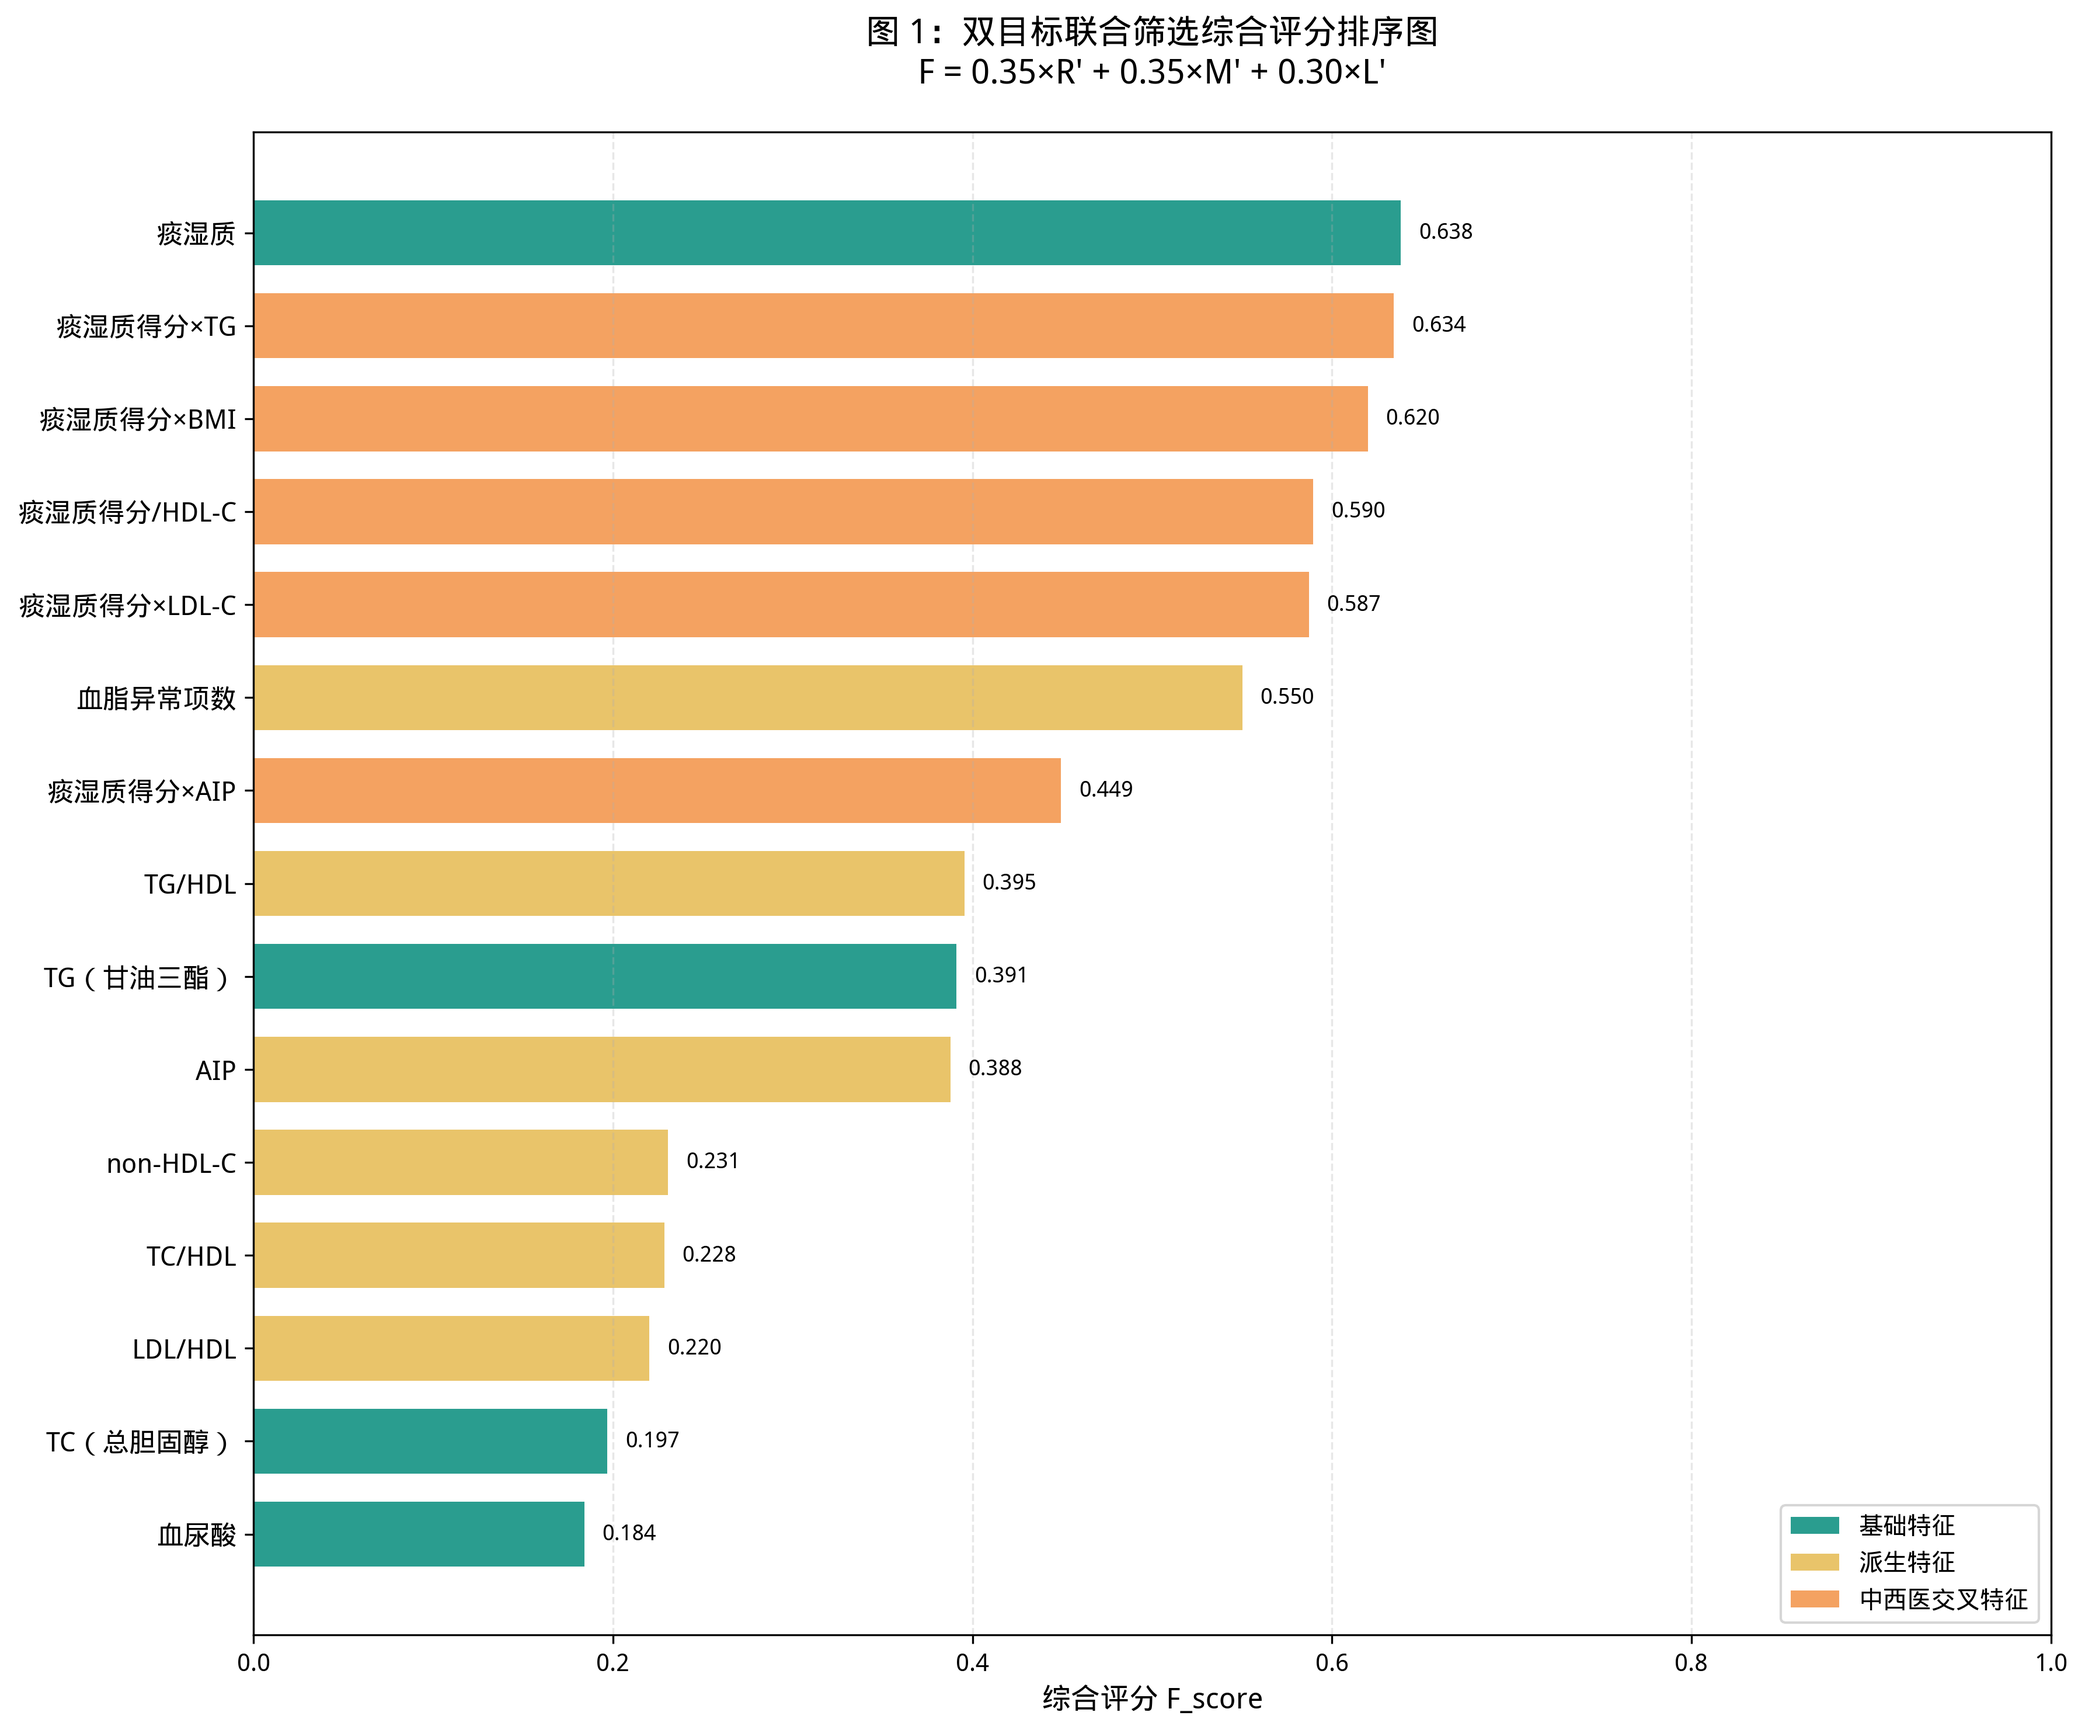
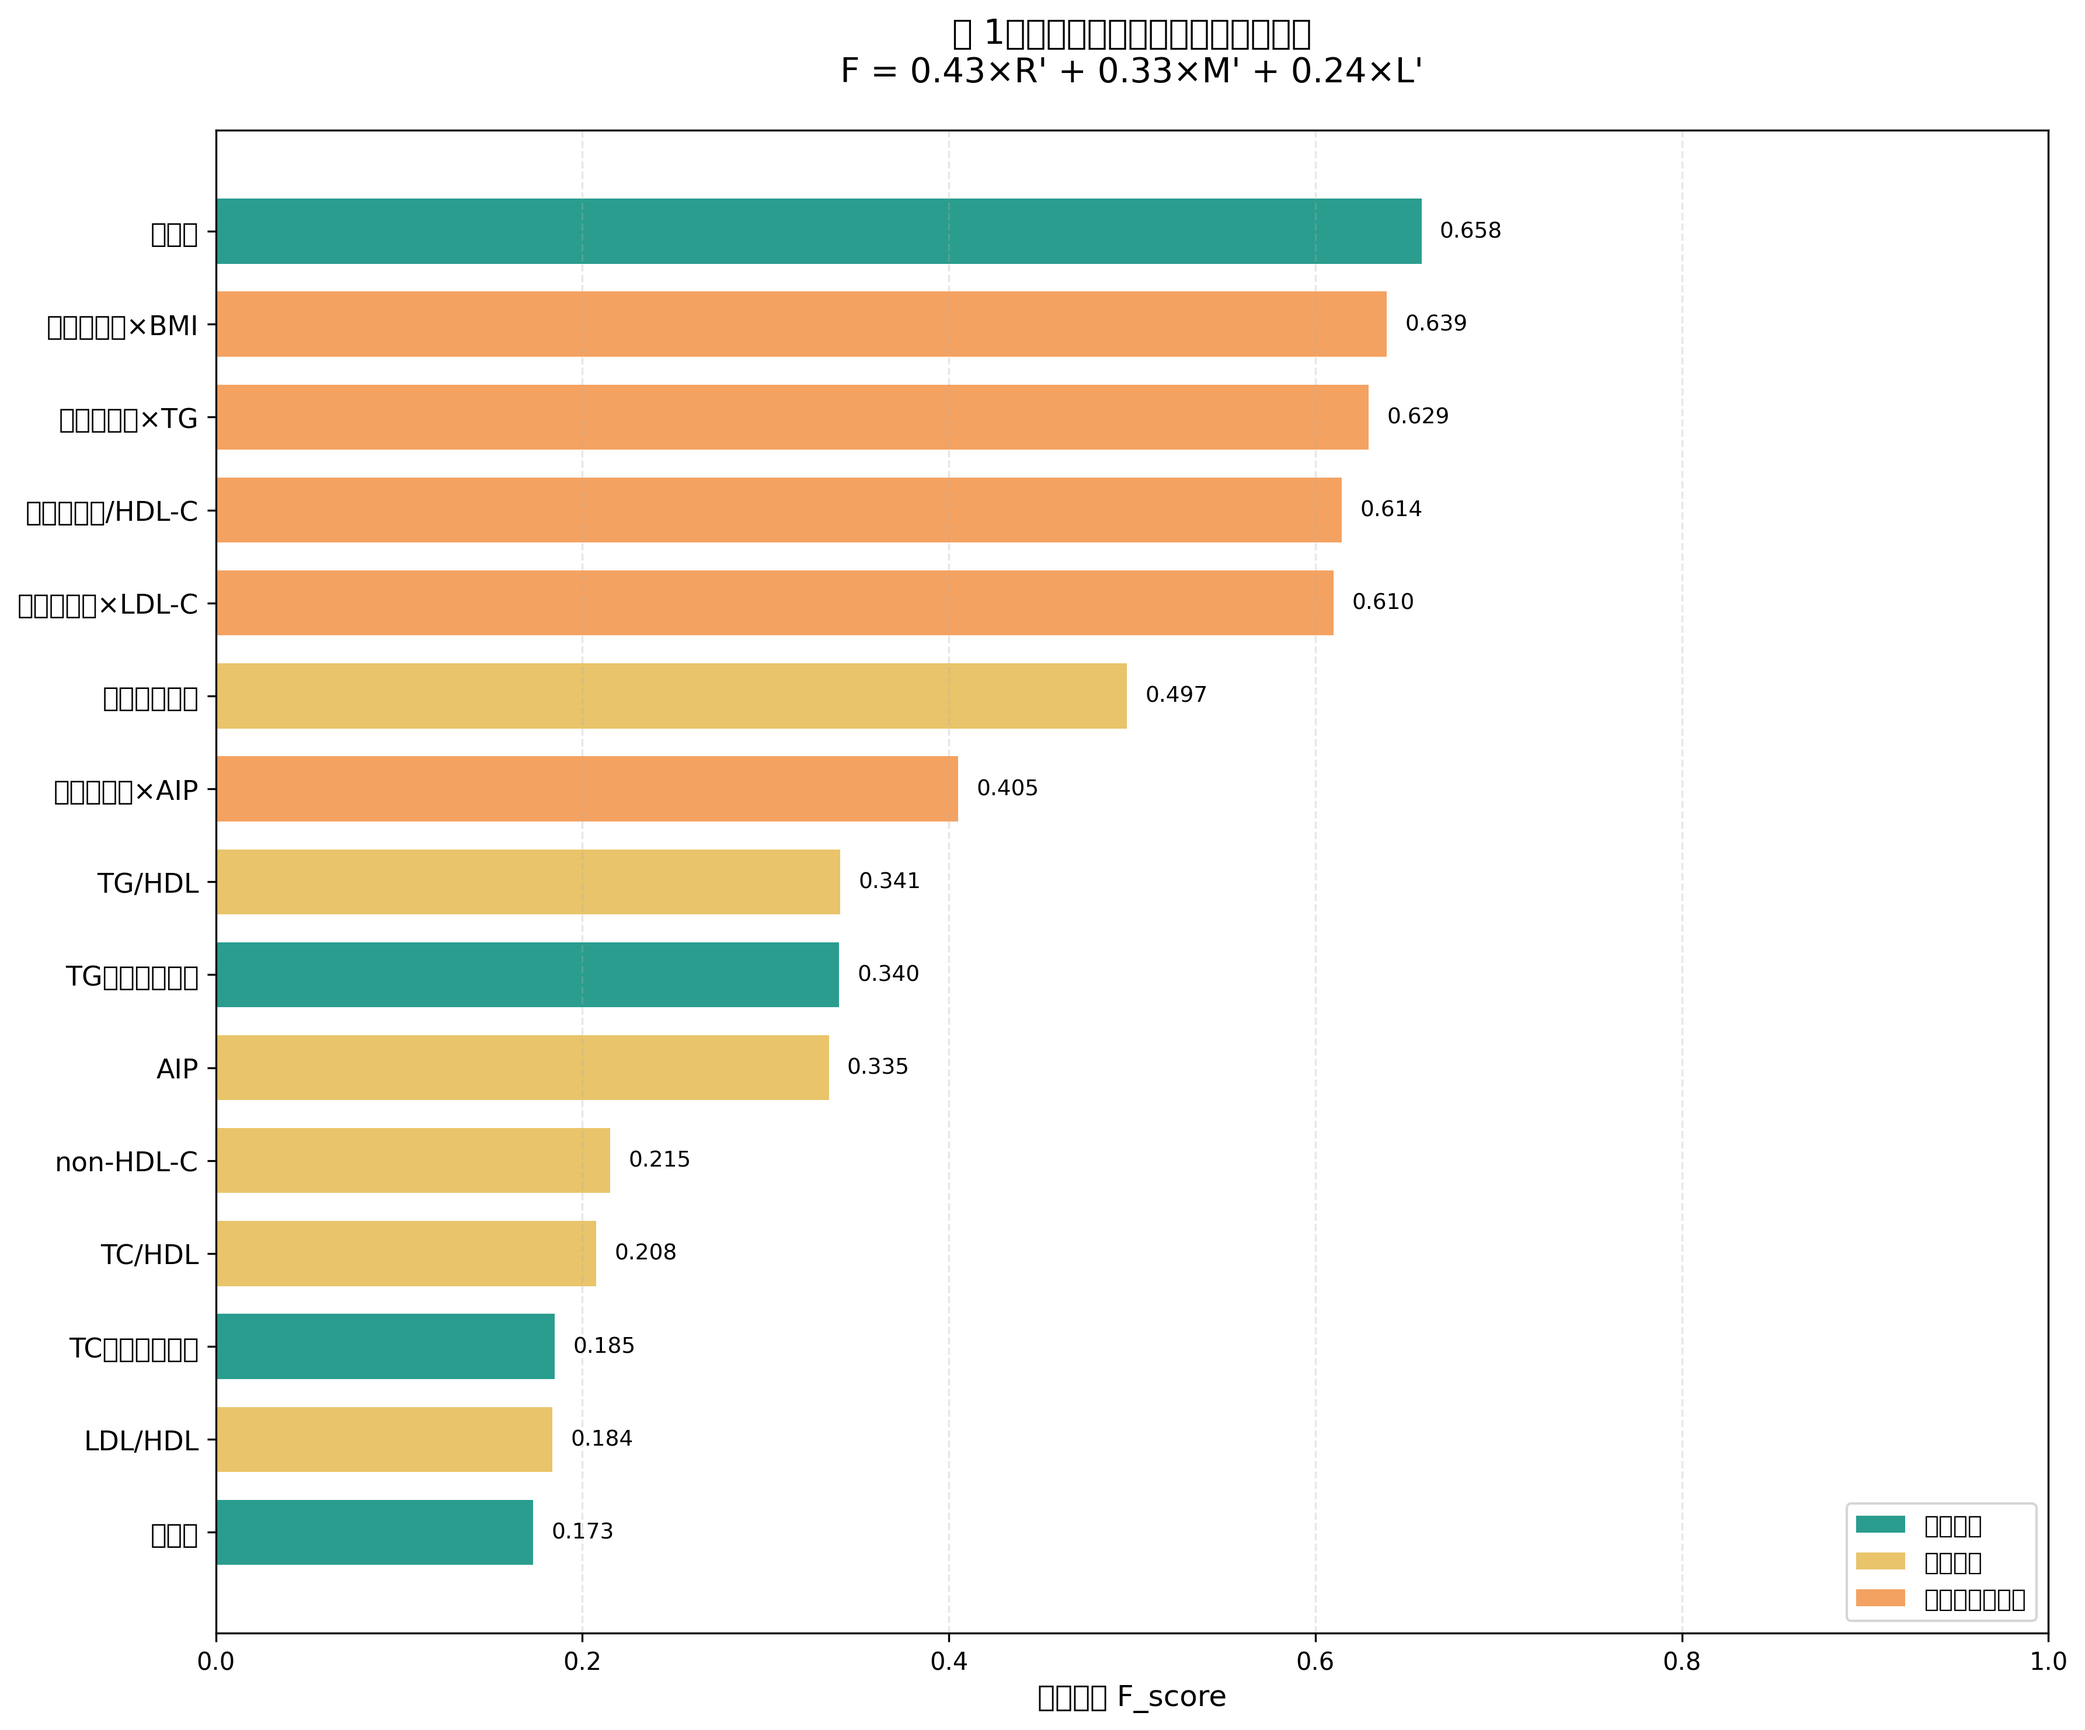
feat: 审查仓库代码

diff --git a/Project_mat/visualize_results.py b/Project_mat/visualize_results.py
@@ -106,7 +106,41 @@ spearman_normalized = normalize(spearman_scores)
 mutual_info_normalized = normalize(mutual_info_scores)
 pls_normalized = normalize(pls_loadings)
 
-weights = [0.35, 0.35, 0.30]
+# 数据驱动的权重计算：基于变异系数法
+print("=== 数据驱动权重计算（变异系数法）===")
+
+# 计算三个维度的变异系数（CV = 标准差/均值）
+dimensions = {
+    'Spearman R': spearman_normalized,
+    'Mutual Info': mutual_info_normalized,
+    'PLS Loading': pls_normalized
+}
+
+cv_values = []
+dim_names = []
+
+for name, scores in dimensions.items():
+    mean = np.mean(scores)
+    std = np.std(scores)
+    if mean == 0:
+        cv = 0
+    else:
+        cv = std / mean
+    cv_values.append(cv)
+    dim_names.append(name)
+    print(f"{name}: 均值={mean:.4f}, 标准差={std:.4f}, 变异系数={cv:.4f}")
+
+# 基于变异系数计算权重（CV越大，权重越大）
+total_cv = sum(cv_values)
+if total_cv == 0:
+    weights = [1/3, 1/3, 1/3]
+else:
+    weights = [cv / total_cv for cv in cv_values]
+
+print(f"\n基于变异系数的数据驱动权重:")
+for name, weight in zip(dim_names, weights):
+    print(f"{name}: {weight:.4f}")
+
 total_scores = weights[0] * spearman_normalized + weights[1] * mutual_info_normalized + weights[2] * pls_normalized
 
 # 准备特征类型信息
@@ -173,7 +207,9 @@ for i, bar in enumerate(bars):
              f'{width:.3f}', va='center', fontsize=9)
 
 # 添加标题和图例
-plt.title('图 1：双目标联合筛选综合评分排序图\nF = 0.35×R\' + 0.35×M\' + 0.30×L\'', 
+# 从feature_scores中提取权重信息（确保在生成图表前已计算）
+weight_str = f'F = {weights[0]:.2f}×R\' + {weights[1]:.2f}×M\' + {weights[2]:.2f}×L\''
+plt.title(f'图 1：双目标联合筛选综合评分排序图\n{weight_str}', 
           fontsize=14, pad=20)
 
 # 创建图例
